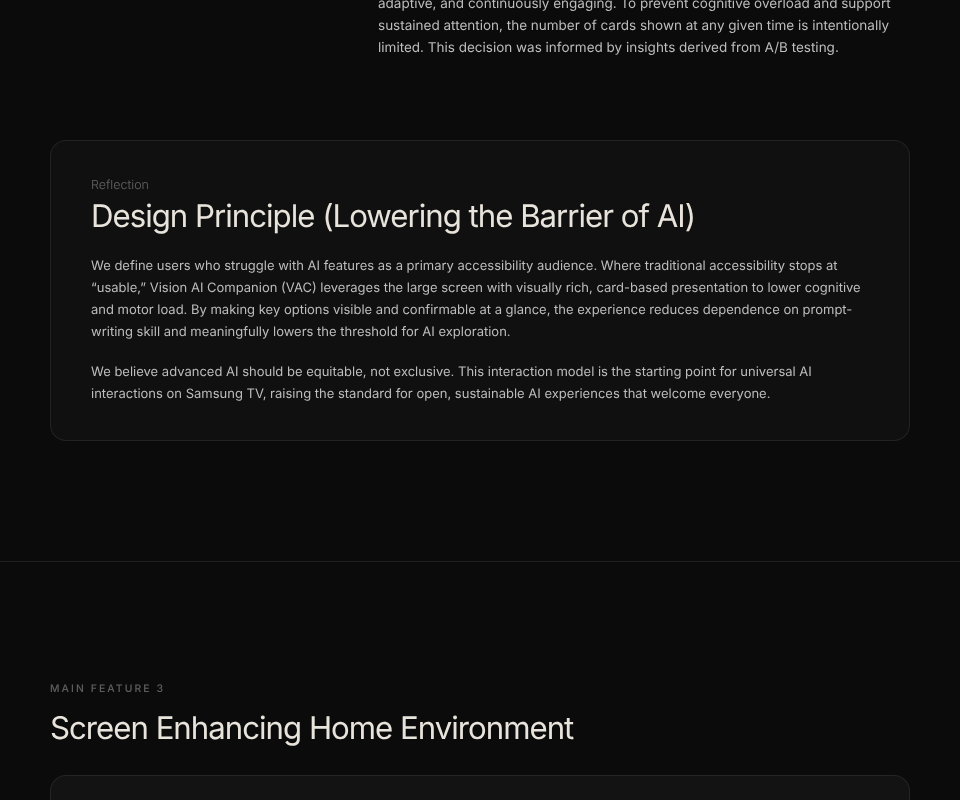
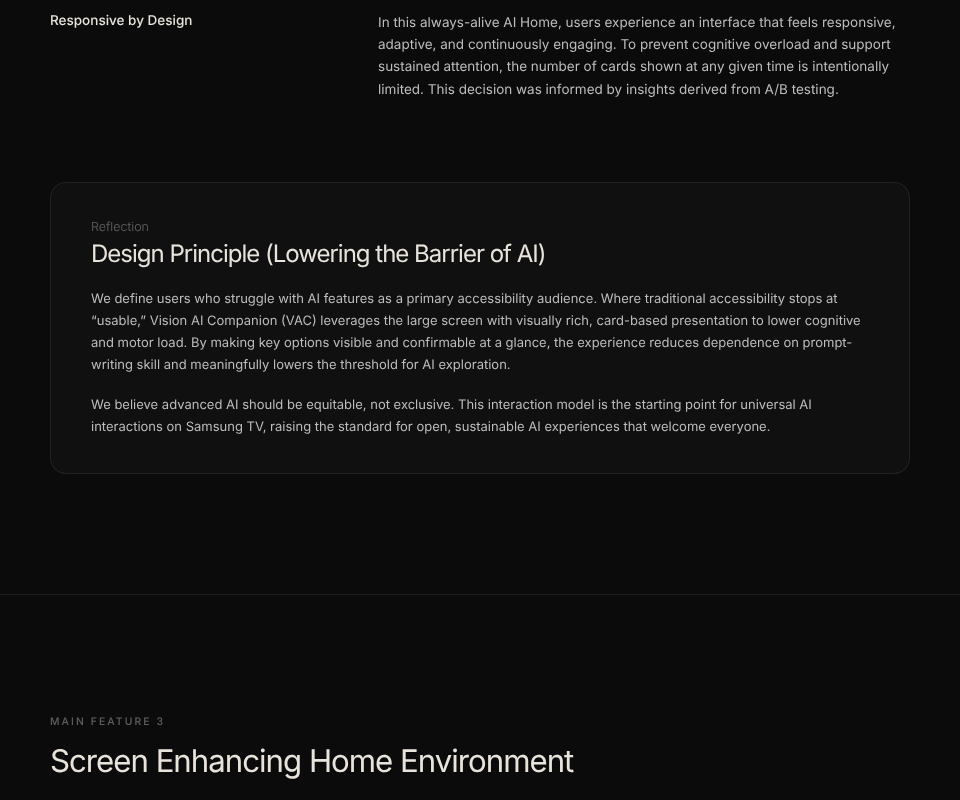
1108

diff --git a/project-1.html b/project-1.html
@@ -359,8 +359,8 @@
   h1.h1,h2.h2{letter-spacing:-1px !important;}
   .stat-card h4,.ux-row h4{font-size:13.5px !important;font-weight:500 !important;}
   .ux-row p{font-size:13.5px !important;}
-  .reflection .r-title{font-size:31.2px !important;font-weight:400 !important;letter-spacing:-1px;line-height:1.2 !important;}
-  @media(max-width:768px){.reflection .r-title{font-size:23px !important;}}
+  .reflection .r-title{font-size:24px !important;font-weight:400 !important;letter-spacing:-1px;line-height:1.2 !important;}
+  @media(max-width:768px){.reflection .r-title{font-size:19px !important;}}
 </style>
 </head>
 <body>
